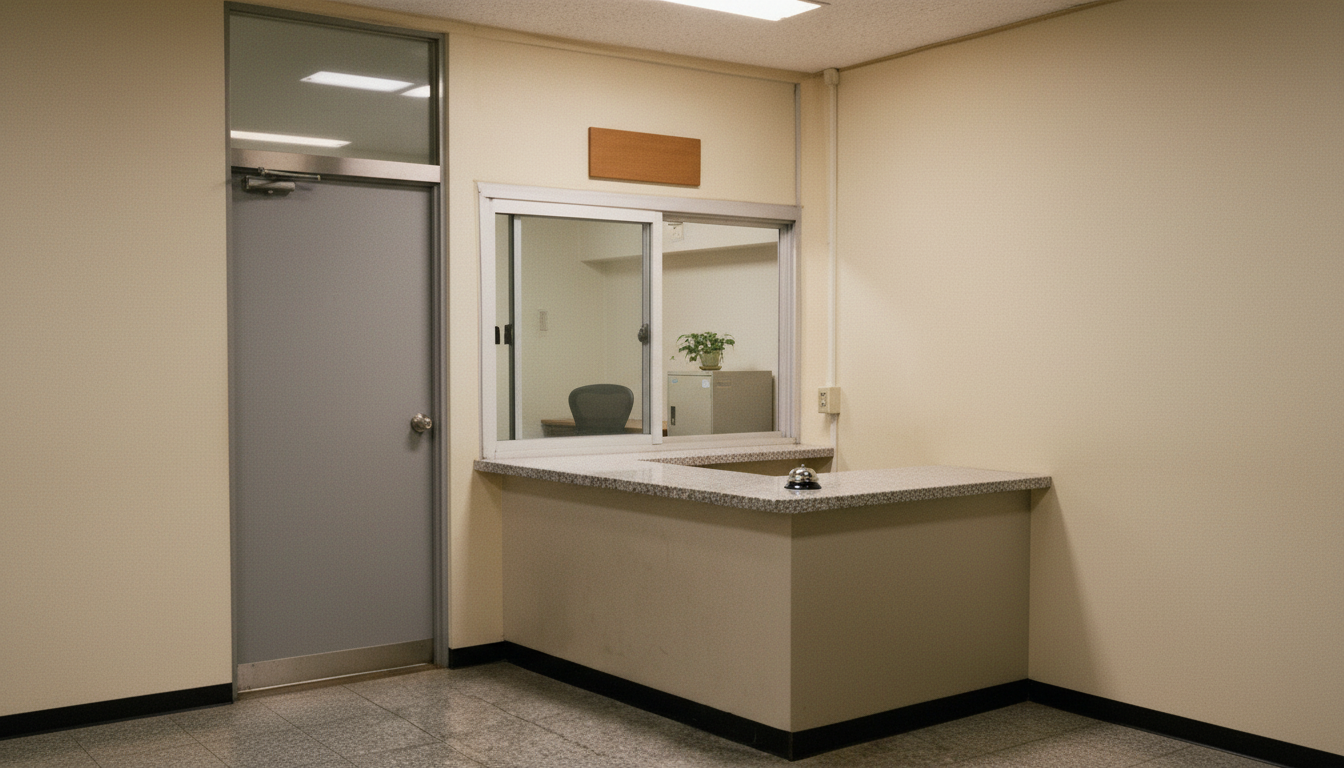
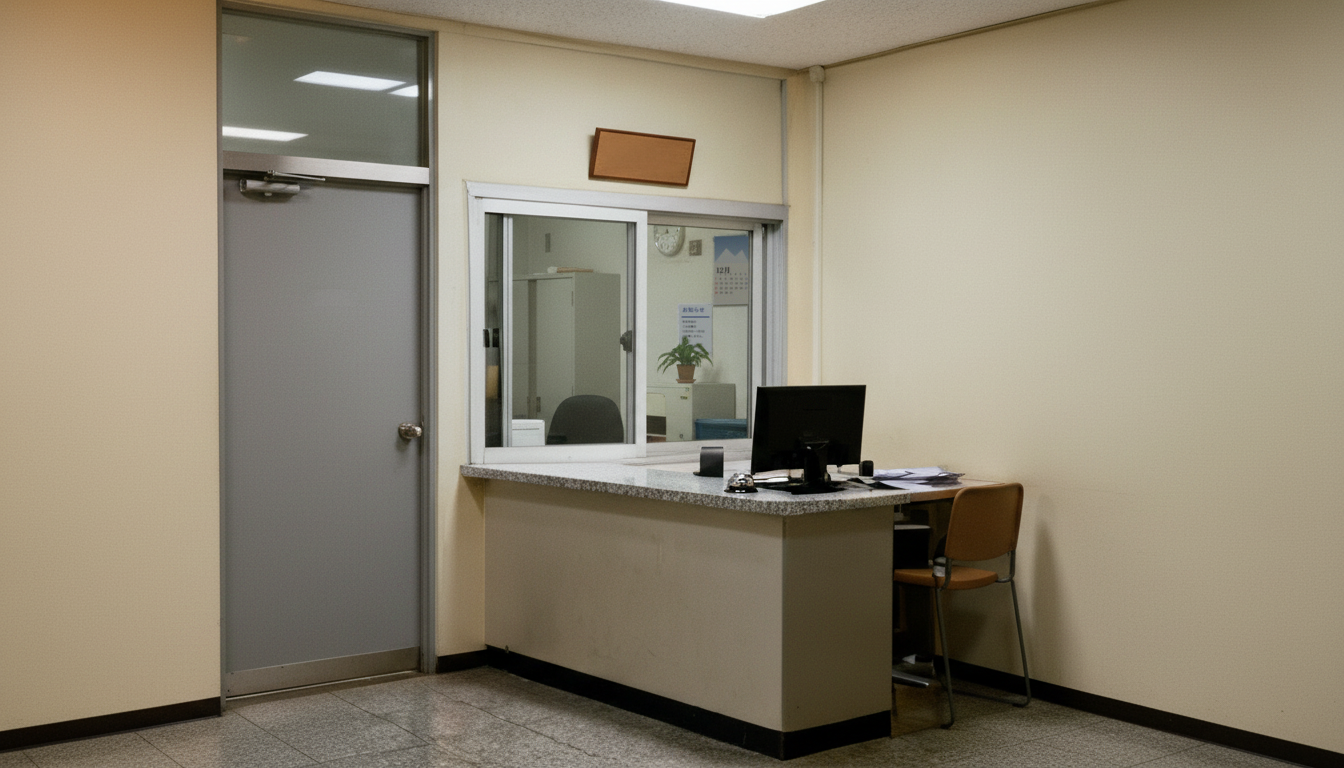
EP4 관리사무소 v2-1 최종 채택(사용자 선택): 유리 너머 달력·게시물 일본어 교체, 모니터 상표 제거, PHASE 2 Lock 기록
Claude-Session: https://claude.ai/code/session_01UqsXoCW5Jjkkv4vnm4Py3i

diff --git a/scripts/ep4_office_ja_signs.py b/scripts/ep4_office_ja_signs.py
@@ -1,0 +1,70 @@
+#!/usr/bin/env python3
+"""EP4 관리사무소 v2-1(사용자 선택): 유리 너머 달력·게시물 외계어 → 실제 일본어(12月 달력, お知らせ), 모니터 상표 글자 제거.
+사용법: ep4_office_ja_signs.py assets/portraits/ep4-cast/loc-mgmt-office-v2-1.png assets/portraits/ep4-cast/cells/loc-mgmt-office-counter.png
+"""
+import numpy as np, sys
+from PIL import Image, ImageDraw, ImageFont, ImageFilter
+SRC, OUT = sys.argv[1], sys.argv[2]
+G = "/usr/share/fonts/opentype/ipafont-gothic/ipag.ttf"
+M = "/home/user/my-project-goni/scripts/fonts/ZenOldMincho-Bold.ttf"
+im = Image.open(SRC).convert("RGB")
+a = np.asarray(im).astype(np.float32)
+K = 10  # 고해상도로 그린 뒤 축소
+
+def calendar(w, h):
+    W, H = w * K, h * K
+    c = Image.new("RGB", (W, H), (236, 236, 232)); d = ImageDraw.Draw(c)
+    ph = int(H * 0.40)  # 상단 사진(겨울 하늘·눈산)
+    for y in range(ph):
+        t = y / ph; d.line([(0, y), (W, y)], fill=(int(120 + 70 * t), int(150 + 60 * t), int(190 + 40 * t)))
+    d.polygon([(0, ph), (W * .35, ph * .45), (W * .6, ph * .75), (W * .8, ph * .5), (W, ph)], fill=(225, 230, 238))
+    f1 = ImageFont.truetype(M, int(W * .2)); d.text((W * .06, ph + H * .02), "12月", font=f1, fill=(40, 40, 45))
+    f2 = ImageFont.truetype(G, int(W * .085))
+    gy, rows, cw = ph + H * .14, 6, W / 7
+    rh = (H * .95 - gy) / rows
+    day, start = 1, 1  # 1일 = 월요일
+    for r in range(rows):
+        for col in range(7):
+            if r == 0 and col < start or day > 31: continue
+            col_fill = (190, 40, 40) if col == 0 else (70, 90, 160) if col == 6 else (50, 50, 55)
+            d.text((col * cw + cw * .15, gy + r * rh), str(day), font=f2, fill=col_fill); day += 1
+            if day > 31: break
+    return c
+
+def notice(w, h):
+    W, H = w * K, h * K
+    c = Image.new("RGB", (W, H), (238, 238, 234)); d = ImageDraw.Draw(c)
+    ft = ImageFont.truetype(G, int(W * .17)); d.text((W * .1, H * .06), "お知らせ", font=ft, fill=(30, 50, 120))
+    d.line([(W * .08, H * .27), (W * .92, H * .27)], fill=(30, 50, 120), width=int(K * .8))
+    fb = ImageFont.truetype(G, int(W * .085))
+    for i, t in enumerate(["年末年始の", "ごみ収集日", "12月29日〜1月3日", "は収集しません。", "", "　管理事務所"]):
+        d.text((W * .1, H * (.34 + i * .1)), t, font=fb, fill=(45, 45, 50))
+    return c
+
+def paste(box, art, keep_green=False):
+    x0, y0, x1, y1 = box
+    reg = a[y0:y1, x0:x1]
+    art = art.resize((x1 - x0, y1 - y0), Image.LANCZOS).filter(ImageFilter.GaussianBlur(0.55))
+    ar = np.asarray(art).astype(np.float32)
+    # 원본 종이의 밝기·색감(유리 너머, 조명) 맞춤: 원본 밝은 부분 평균에 맞춰 스케일
+    paper = np.percentile(reg.reshape(-1, 3), 85, axis=0)
+    ar = ar / ar.reshape(-1, 3).max(0) * paper
+    ar += np.random.default_rng(1).normal(0, 2.0, ar.shape)
+    m = np.ones(reg.shape[:2], np.float32)
+    if keep_green:  # 앞쪽 화분 잎은 원본 유지
+        g = (reg[..., 1] > reg[..., 0] + 8) & (reg[..., 1] > reg[..., 2] + 8)
+        m[g] = 0
+        m = np.asarray(Image.fromarray((m * 255).astype(np.uint8)).filter(ImageFilter.GaussianBlur(1))) / 255.
+    # 가장자리 1px 페더
+    e = np.ones_like(m); e[0, :] = e[-1, :] = e[:, 0] = e[:, -1] = .5
+    m = (m * e)[..., None]
+    a[y0:y1, x0:x1] = reg * (1 - m) + ar * m
+
+paste((714, 236, 749, 304), calendar(35, 68))
+paste((679, 304, 712, 352), notice(33, 48), keep_green=True)
+# 모니터 뒷면 상표 글자: 주변 검은 면으로 덮기
+y0, y1, x0, x1 = 397, 409, 800, 832
+fill = np.median(np.concatenate([a[y0 - 6:y0 - 2, x0:x1].reshape(-1, 3), a[y1 + 2:y1 + 6, x0:x1].reshape(-1, 3)]), axis=0)
+a[y0:y1, x0:x1] = fill + np.random.default_rng(2).normal(0, 1.5, (y1 - y0, x1 - x0, 3))
+Image.fromarray(np.clip(a, 0, 255).astype(np.uint8)).save(OUT)
+print("저장", OUT)

diff --git a/docs/EP4-PHASE2-마스터에셋.md b/docs/EP4-PHASE2-마스터에셋.md
@@ -1,6 +1,6 @@
 # EP4 「김씨의 크리스마스」 — PHASE 2 기준 마스터 에셋 고정
 
-규격서 PHASE 2 산출물. 작성 2026-10-04. 상태: **Kill Gate 검수 완료 — 사용자 승인 대기**
+규격서 PHASE 2 산출물. 작성 2026-10-04. 상태: **Lock — 사용자 승인 2026-10-04(「승인」), 관리사무소는 v2-1 최종(사용자 선택)**
 스펙 `scripts/portraits/ep4-cast.json`(generate-video.yml portraits_spec=ep4-cast), 출력 `assets/portraits/ep4-cast/`, 셀 `assets/portraits/ep4-cast/cells/`(분할기 `scripts/split_sheet_cells.py`, 무과금).
 검수용 인물 셀 모음: `docs/EP4-PHASE2-인물셀-검수.png`.
 
@@ -29,7 +29,7 @@
 |---|---|---|
 | 18층 복도 `loc-corridor-18f` | 합격 | 호수 없음. 경미: 도어록 키패드 무늬 → 얕은 심도로 흐림 |
 | 1801호 거실 `loc-apt-1801` | 합격 | 경미: 낮 셀 좌상단 액자 → 그 구석 프레임 밖 |
-| 관리사무소 `loc-mgmt-office` | **합격(재생성)** | 2회 생성 모두 벽 게시물 외계어, 로컬 지우기본은 부자연스러움(사용자 지적) → 지우기본을 배치 참조로 일본 맨션 관리인실 스타일 16:9 재생성 2안: v2-1 유리 너머 달력·게시물 글자 불합격, **v2-2 합격**(투명 유리, 안쪽 맨 벽, 호출 벨, 무지 나무 명판 — 「管理事務所」 합성 자리) → `cells/loc-mgmt-office-counter.png`. CCTV 모니터 클로즈업은 `cells/loc-mgmt-office-key2.png` 구도 참조(모니터 상표 글자는 키프레임에서 제거 지시) |
+| 관리사무소 `loc-mgmt-office` | **합격(재생성)** | 2회 생성 모두 벽 게시물 외계어, 로컬 지우기본은 부자연스러움(사용자 지적) → 지우기본을 배치 참조로 일본 맨션 관리인실 스타일 16:9 재생성 2안: v2-1 유리 너머 달력·게시물 글자 불합격, v2-2 합격(투명 유리·맨 벽). **2026-10-04 사용자 선택으로 v2-1 최종 채택**: 유리 너머 외계어를 실제 일본어로 교체(「12月」 달력, 「お知らせ」 연말연시 쓰레기 수거 안내 — 화분 잎은 원본 유지), 모니터 뒷면 상표 글자 제거(로컬, `scripts/ep4_office_ja_signs.py`, 비교 `docs/EP4-관리사무소-v2-1-일본어교체.png`) → `cells/loc-mgmt-office-counter.png`. 무지 갈색 명판은 「管理事務所」 합성 자리. v2-2는 `cells/_unused/loc-mgmt-office-counter-v2-2.png`. 키프레임에서 유리 너머는 얕은 심도로 흐리고, 다시 생긴 글자는 Kill Gate에서 같은 방식으로 교체. CCTV 모니터 클로즈업은 `cells/loc-mgmt-office-key2.png` 구도 참조(모니터 상표 글자는 키프레임에서 제거 지시) |
 | 계단실·우편함 `loc-stairwell` | 합격 | |
 | 겨울 경비실 `loc-guard-booth-winter` | 합격(조합) | 2차: 낮 셀 컬러 복구. 사진 안 라벨 글자는 셀 하단 10% 크롭으로 제거. 밤 난로 컷은 1차(`cells/loc-guard-booth-winter-v1-key1/key2.png`) 사용 |
 | 겨울 정문 `loc-apt-gate-winter` | 합격 | key1(성에 낀 경비실 창)·key2(새벽 단지) 활용 |
